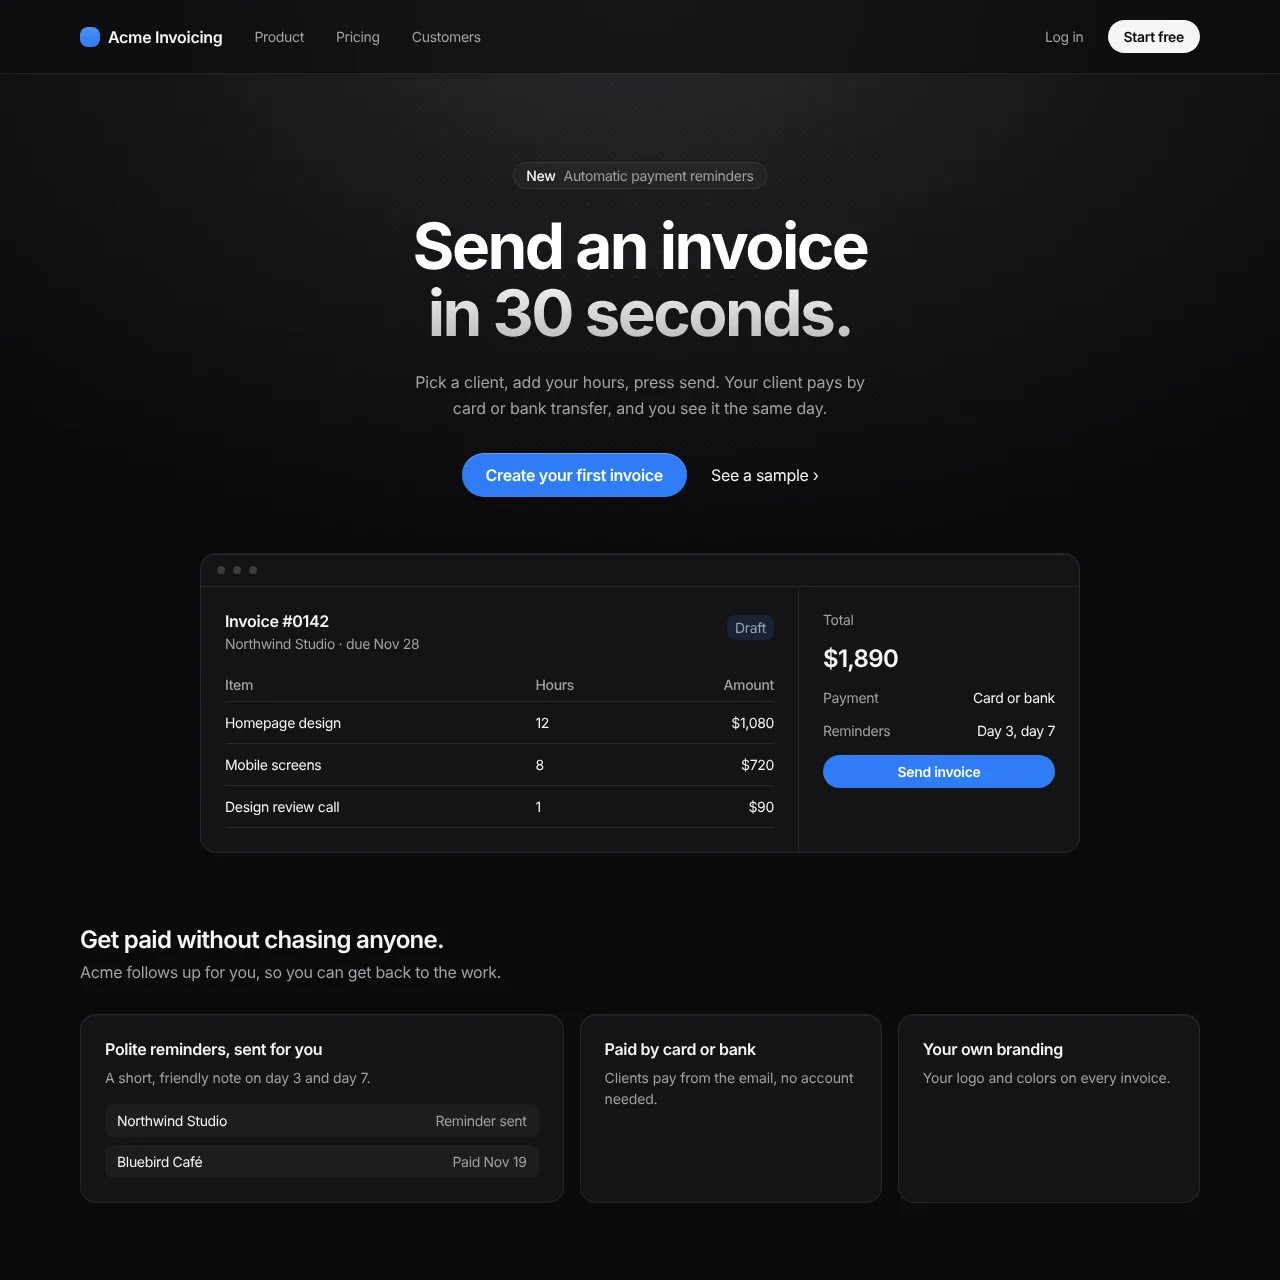
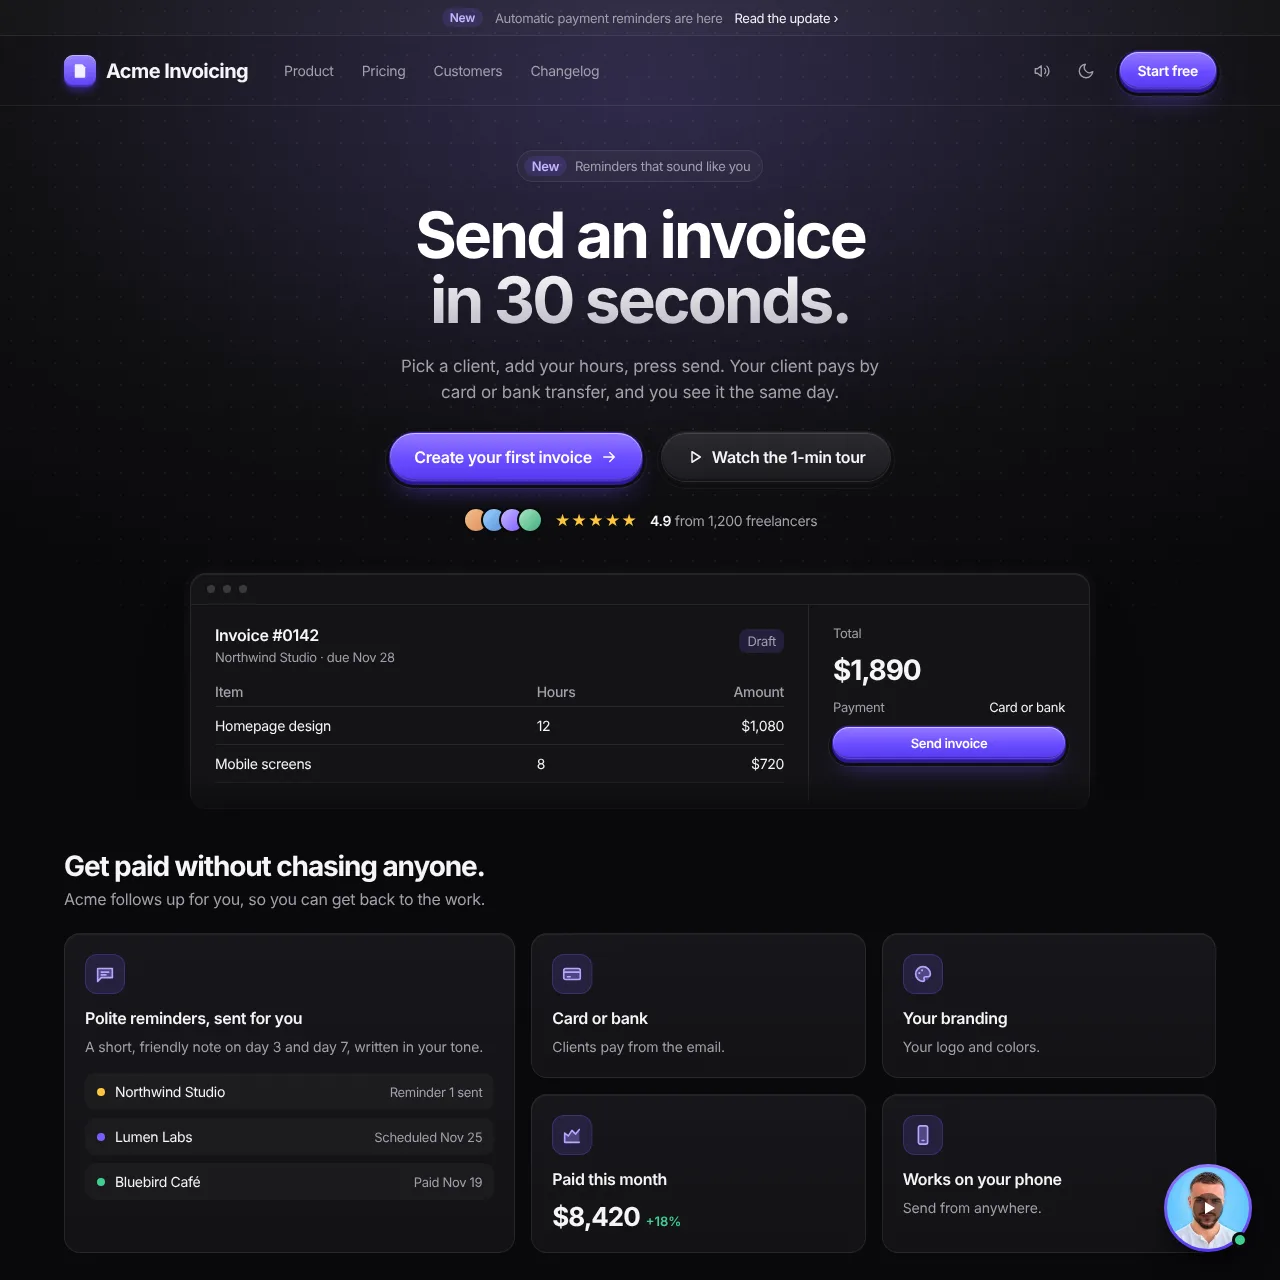
Ebook: richer after page in slider, book cover beside section headings

diff --git a/app/ebook/page.jsx b/app/ebook/page.jsx
@@ -171,7 +171,7 @@ export default function Ebook() {
       </section>
 
       <section className="eb-sec eb-why">
-        <h2>Why this book is <span className="t2">different</span></h2>
+        <div className="eb-cov-h"><h2>Why this book is <span className="t2">different</span></h2><img className="eb-cov" src="/book-cover.webp?v=2" width="300" height="400" alt="" loading="lazy" aria-hidden="true" /></div>
         <p className="eb-why-lede">I started with prompt packs too. Paste, get a nicer page, move on. Then the next page looked just as AI-made, and I had no idea why. The fix was not a better prompt. It was <em className="scr">knowing the rules behind it.</em></p>
         <p className="eb-why-lede">So this book does not just hand you prompts. It teaches you why each fix works, so you can repeat it on anything you build.</p>
         <div className="eb-why-grid">
@@ -202,7 +202,7 @@ export default function Ebook() {
       </section>
 
       <section className="eb-sec eb-sys" aria-labelledby="eb-sys-h">
-        <h2 id="eb-sys-h">A system, <span className="t2">not a pile of prompts</span></h2>
+        <div className="eb-cov-h"><h2 id="eb-sys-h">A system, <span className="t2">not a pile of prompts</span></h2><img className="eb-cov" src="/book-cover.webp?v=2" width="300" height="400" alt="" loading="lazy" aria-hidden="true" /></div>
         <p className="eb-why-lede">Prompts fix a page once. This is a loop you can <em className="scr">run on every page you build.</em></p>
         <ol className="eb-sys-l">
           <li><span>1</span><b>Rules</b><p>DESIGN.md gives your AI your spacing, colors, type, icons and copy rules, so it stops guessing.</p><code>DESIGN.md</code></li>
@@ -213,7 +213,7 @@ export default function Ebook() {
       </section>
 
       <section className="eb-sec">
-        <h2>All 27 <span className="t2">steps</span></h2>
+        <div className="eb-cov-h"><h2>All 27 <span className="t2">steps</span></h2><img className="eb-cov" src="/book-cover.webp?v=2" width="300" height="400" alt="" loading="lazy" aria-hidden="true" /></div>
         <div className="eb-steps">
           {STEPS.map(([title, sub, items], gi) => {
             const bonus = gi === 3;

diff --git a/components/BeforeAfter.jsx b/components/BeforeAfter.jsx
@@ -3,7 +3,7 @@ import { useState } from "react";
 
 // Before and after slider. Sample site drawn for this page; add reader screenshots as new pairs later.
 // To add a pair later, give it before and after image paths.
-const PAIRS = [{ id: 1, before: "/ebook/ba-before.webp?v=2", after: "/ebook/ba-after.webp?v=2", beforeAlt: "First AI draft of a sample invoicing site: default AI layout with a gradient headline word, generic stats and six colorful icon cards", afterAlt: "The same sample site with the DESIGN.md rules: dark gray base with a dotted fade, one blue accent, a clear headline and a real invoice screen" }];
+const PAIRS = [{ id: 1, before: "/ebook/ba-before.webp?v=2", after: "/ebook/ba-after.webp?v=3", beforeAlt: "First AI draft of a sample invoicing site: default AI layout with a gradient headline word, generic stats and six colorful icon cards", afterAlt: "The same sample site with the DESIGN.md rules: dark base with a dotted fade, a purple accent, 3D buttons, a clear headline, a real invoice screen and a bento grid" }];
 
 function Slider({ id, before, after, beforeAlt, afterAlt }) {
   const [v, setV] = useState(50);
@@ -20,7 +20,7 @@ function Slider({ id, before, after, beforeAlt, afterAlt }) {
 export default function BeforeAfter() {
   return (
     <section className="eb-sec ba" aria-labelledby="ba-h">
-      <h2 id="ba-h">Before and <span className="t2">after</span></h2>
+      <div className="eb-cov-h"><h2 id="ba-h">Before and <span className="t2">after</span></h2><img className="eb-cov" src="/book-cover.webp?v=2" width="300" height="400" alt="" loading="lazy" aria-hidden="true" /></div>
       <p className="eb-why-lede">A sample marketing site, hero and first section. Left is the first AI draft, breaking every rule in DESIGN.md. Right is the same page with the rules applied. <em className="scr">Drag to compare.</em></p>
       <div className="ba-list">
         {PAIRS.map((p) => <Slider key={p.id} {...p} />)}

diff --git a/app/globals.css b/app/globals.css
@@ -3326,3 +3326,8 @@ body:has(.hero2[data-bg="#0b0b0c"]) { background-color: #0b0b0c; }
   :is(.eb-hero .btn-row, .eb-bn-cta, .eb-more, .eb-hp .hp-cta, .eb-end .btn-row) { display: flex; flex-wrap: wrap; justify-content: center; text-align: center; }
   .eb-offer :is(.hero2-btn) { align-self: center; justify-self: center; margin-inline: auto; }
 }
+/* Ebook: small book cover beside section headings */
+.eb-cov-h { display: flex; align-items: center; justify-content: space-between; gap: 16px; }
+.eb-cov-h h2 { margin-bottom: 0; }
+.eb-cov { flex: none; width: clamp(64px, 9vw, 104px); height: auto; border-radius: 3px 8px 8px 3px; rotate: 6deg; box-shadow: inset 3px 0 0 rgba(255, 255, 255, .25), 0 18px 34px -12px rgba(0, 0, 0, .75), 0 0 0 1px rgba(255, 255, 255, .06); }
+.eb-cov-h + * { margin-top: 20px; }
